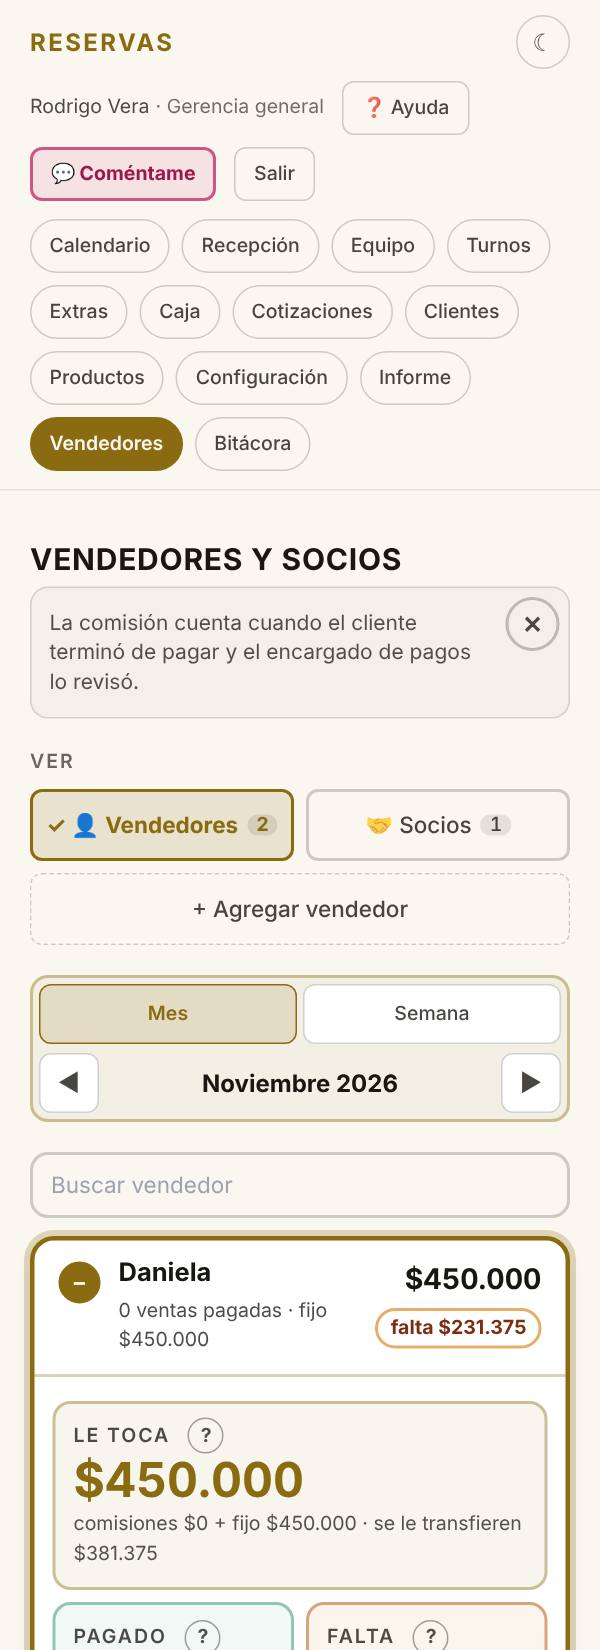
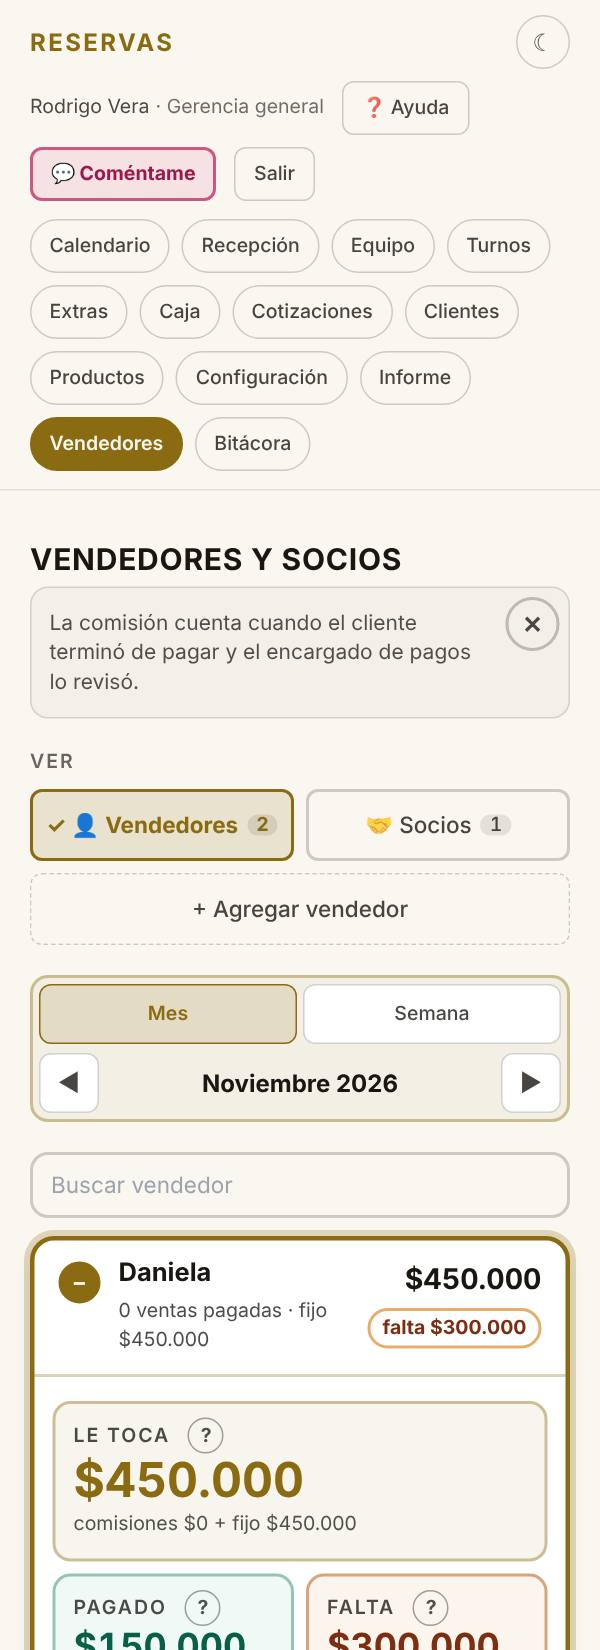
Ayuda: fotos de Vendedores e Informe rehechas con la boleta en líquido
Claude-Session: https://claude.ai/code/session_01SbCpLa75SGZQaPNQHBPMTQ

Changed region(s): [[0.09, 0.8964, 0.93, 1.0], [0.6, 0.7727, 0.87, 0.8345]]

diff --git a/panel/CLAUDE.md b/panel/CLAUDE.md
@@ -283,8 +283,9 @@ honorarios**; la factura sigue con *IVA incluido / más IVA*.
 - **Las comisiones no cambian**: lo que cambia es lo que se le transfiere y lo que dice la boleta
   (*Pagarle*, el Informe, el link personal, la caja de la boleta). El equipo y los extras ya eran así.
 - **Lecturas de Google**: ninguna. **Ningún permiso cambió.** **Ayuda**: el `?` del Informe y los
-  textos de la ficha. **Las fotos de la ayuda de Vendedores y del Informe quedan por rehacer**: la
-  ficha ya no dice *retención incluida*.
+  textos de la ficha. **Las fotos de la ayuda de Vendedores y del Informe se rehicieron el mismo día**
+  (`ven-resumen`, `pag-vendedores`, `ger-vendedores`, `pag-informe`, `ger-informe`, `ope-informe`,
+  `pag-pagar`, `ger-pagar`): la ficha ya no dice *retención incluida*.
 
 ## La rotación de las cotizaciones del sitio (2026-11-25)
 

diff --git a/TRASPASO.md b/TRASPASO.md
@@ -525,7 +525,7 @@ conversación: hay que preguntarlo o mirarlo antes de darlo por hecho.
   la boleta va por $648.968): la ficha pregunta solo *Con retención / Sin
   retención* (la factura no cambia) y las comisiones quedan como estaban. Ver
   `panel/CLAUDE.md`, "Con boleta, lo que gana es líquido". **Las fotos de la ayuda
-  de Vendedores e Informe quedan por rehacer.**
+  de Vendedores e Informe se rehicieron el mismo día.**
 - **La rotación de las cotizaciones del sitio** (25-11-2026, lo pidió el cliente):
   casilla *Participa en la rotación* en cada vendedor; cada cotización del sitio le
   toca al que sigue (`lib/rotacion.ts`); sin nadie marcado, vale *Las del sitio van
